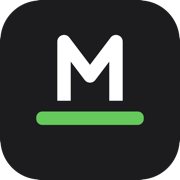
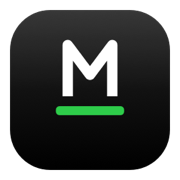
图标：M 居中 + 绿线贴 M 正下方（ice 报）
M 与绿色下划线改为一个组合整体垂直居中；下划线宽度收窄呼应 M 字面
（0.62→0.38）、加粗到 0.05。favicon.svg / 落地页内联 SVG /
apple-touch-icon 同步新构图。

diff --git a/scripts/make-icon.swift b/scripts/make-icon.swift
@@ -5,13 +5,13 @@
 // 用代码画而不是塞一张位图：图标需要 16pt 到 1024pt 共 10 个尺寸，从矢量描述
 // 逐个尺寸渲染出来，小尺寸下笔画才不会糊成一团。
 //
-// 设计：黑色圆角方块 + 居中的纯白几何 M + 底部一道绿色横线。
+// 设计：黑色圆角方块 + 居中偏上的纯白几何 M + 紧贴 M 下方的绿色下划线。
 //
 // M 不用字体字形，而是用几段粗线画出来 —— 笔画用圆角接头（半径半个笔画宽，
 // 只磨圆顶点，直边与平切端点保留），整体硬朗但不拉尖刺。
-// 底部横线用绿色（#2ECC4A），作为整个图标唯一的高饱和色。
-// 背景是纯黑系的微弱纵向渐变（ice 2026-09-19 要求对齐 Vme 图标的黑），
-// 顶部一道极弱高光防止死板。
+// M 与下划线视为一个组合整体垂直居中（ice 2026-09-19：M 居中、绿线贴在 M 正下方），
+// 下划线宽度呼应 M 的字面宽，作为整个图标唯一的高饱和色（#2ECC4A）。
+// 背景是纯黑系的微弱纵向渐变（对齐 Vme 图标的黑），顶部一道极弱高光防止死板。
 
 import AppKit
 
@@ -54,7 +54,14 @@ func drawIcon(in rect: NSRect) {
     let mWidth = size * 0.248
     let mHeight = size * 0.285
     let centerX = body.midX
-    let bottom = body.minY + size * 0.432
+
+    // M 与下划线是一个组合：先算组合总高，整体垂直居中
+    let barWidth = size * 0.38
+    let barHeight = max(size * 0.05, 1)
+    let barGap = size * 0.055
+    let groupBottom = body.minY + (size - mHeight - barGap - barHeight) / 2
+
+    let bottom = groupBottom + barHeight + barGap
     let top = bottom + mHeight
     let left = centerX - mWidth / 2
     let right = centerX + mWidth / 2
@@ -76,13 +83,10 @@ func drawIcon(in rect: NSRect) {
     NSColor.white.setStroke()
     mPath.stroke()
 
-    // 底部强调线。加粗到 0.06（ice 2026-09-19，对齐 Vme 图标的份量感），
-    // y 跟着厚度调，保持线的**中心**位置不变
-    let barWidth = size * 0.62
-    let barHeight = max(size * 0.034, 1)
+    // 绿色下划线：贴在 M 正下方，宽度呼应 M 的字面（ice 2026-09-19）
     let bar = NSRect(
         x: body.midX - barWidth / 2,
-        y: body.minY + size * 0.330,
+        y: groupBottom,
         width: barWidth,
         height: barHeight
     )
